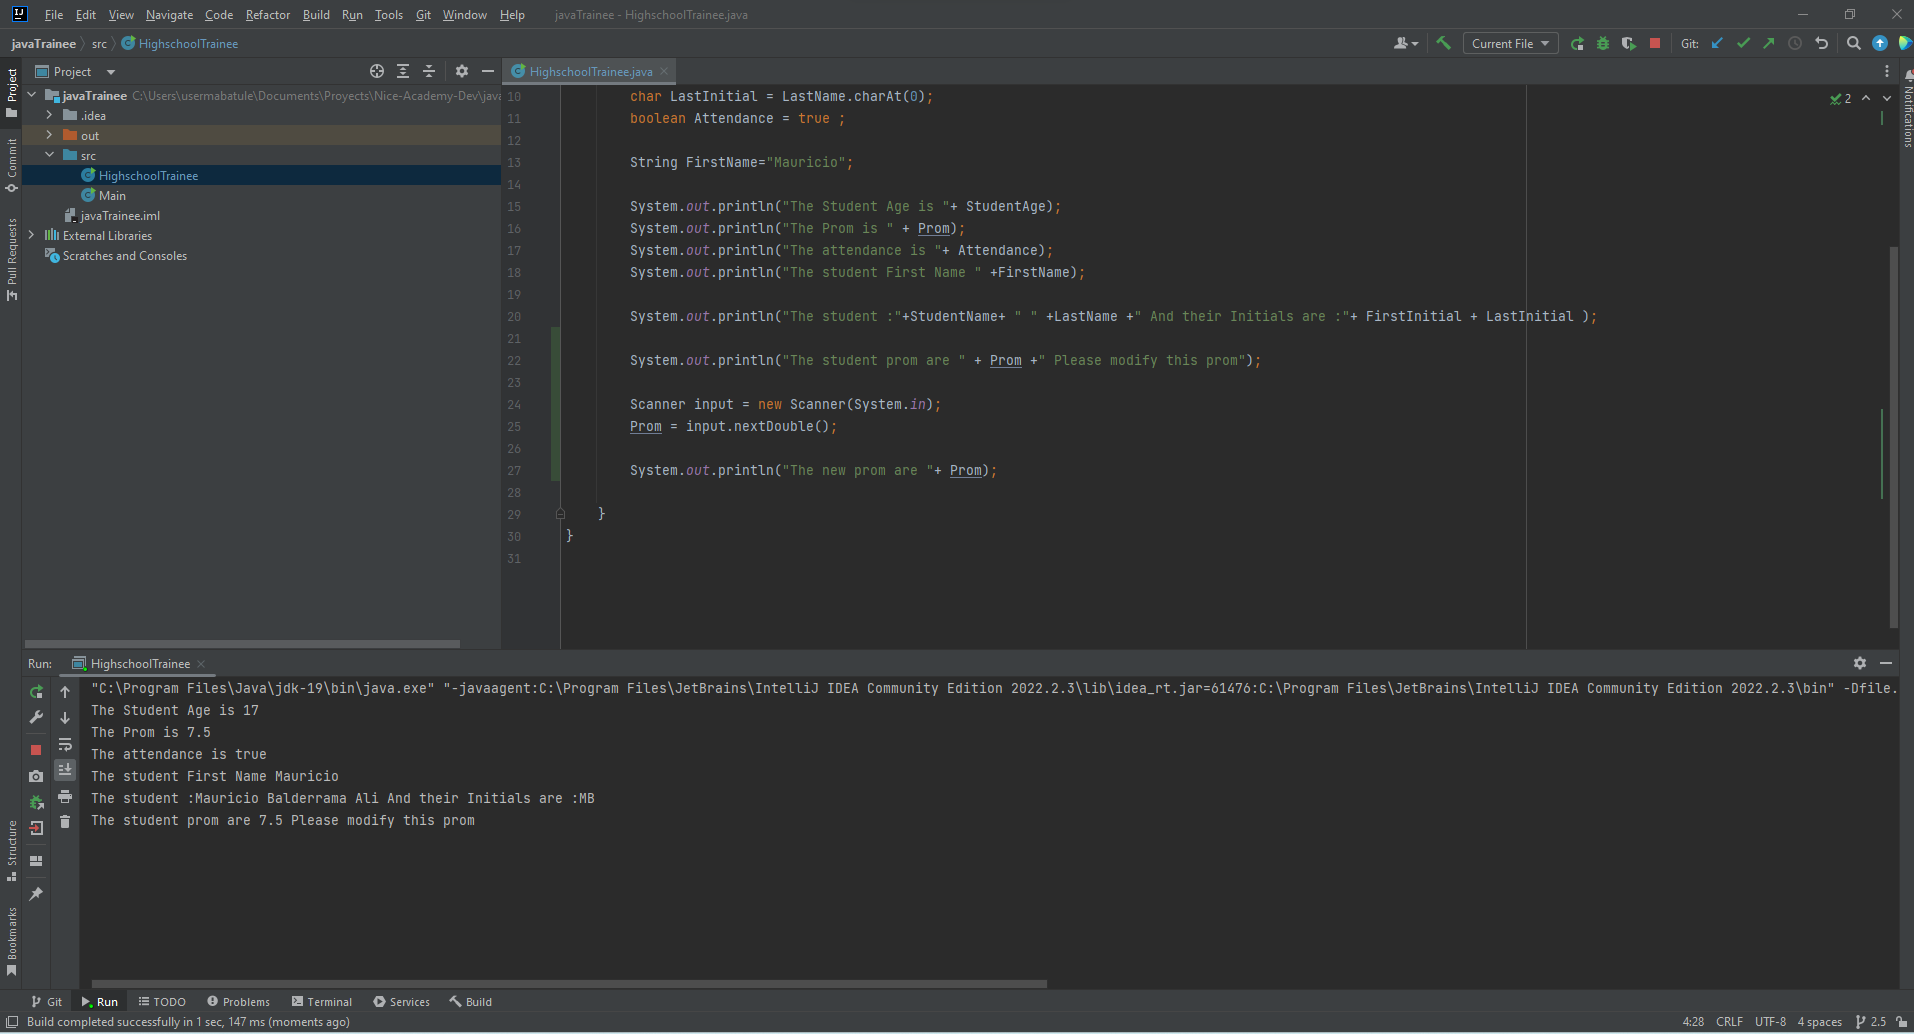
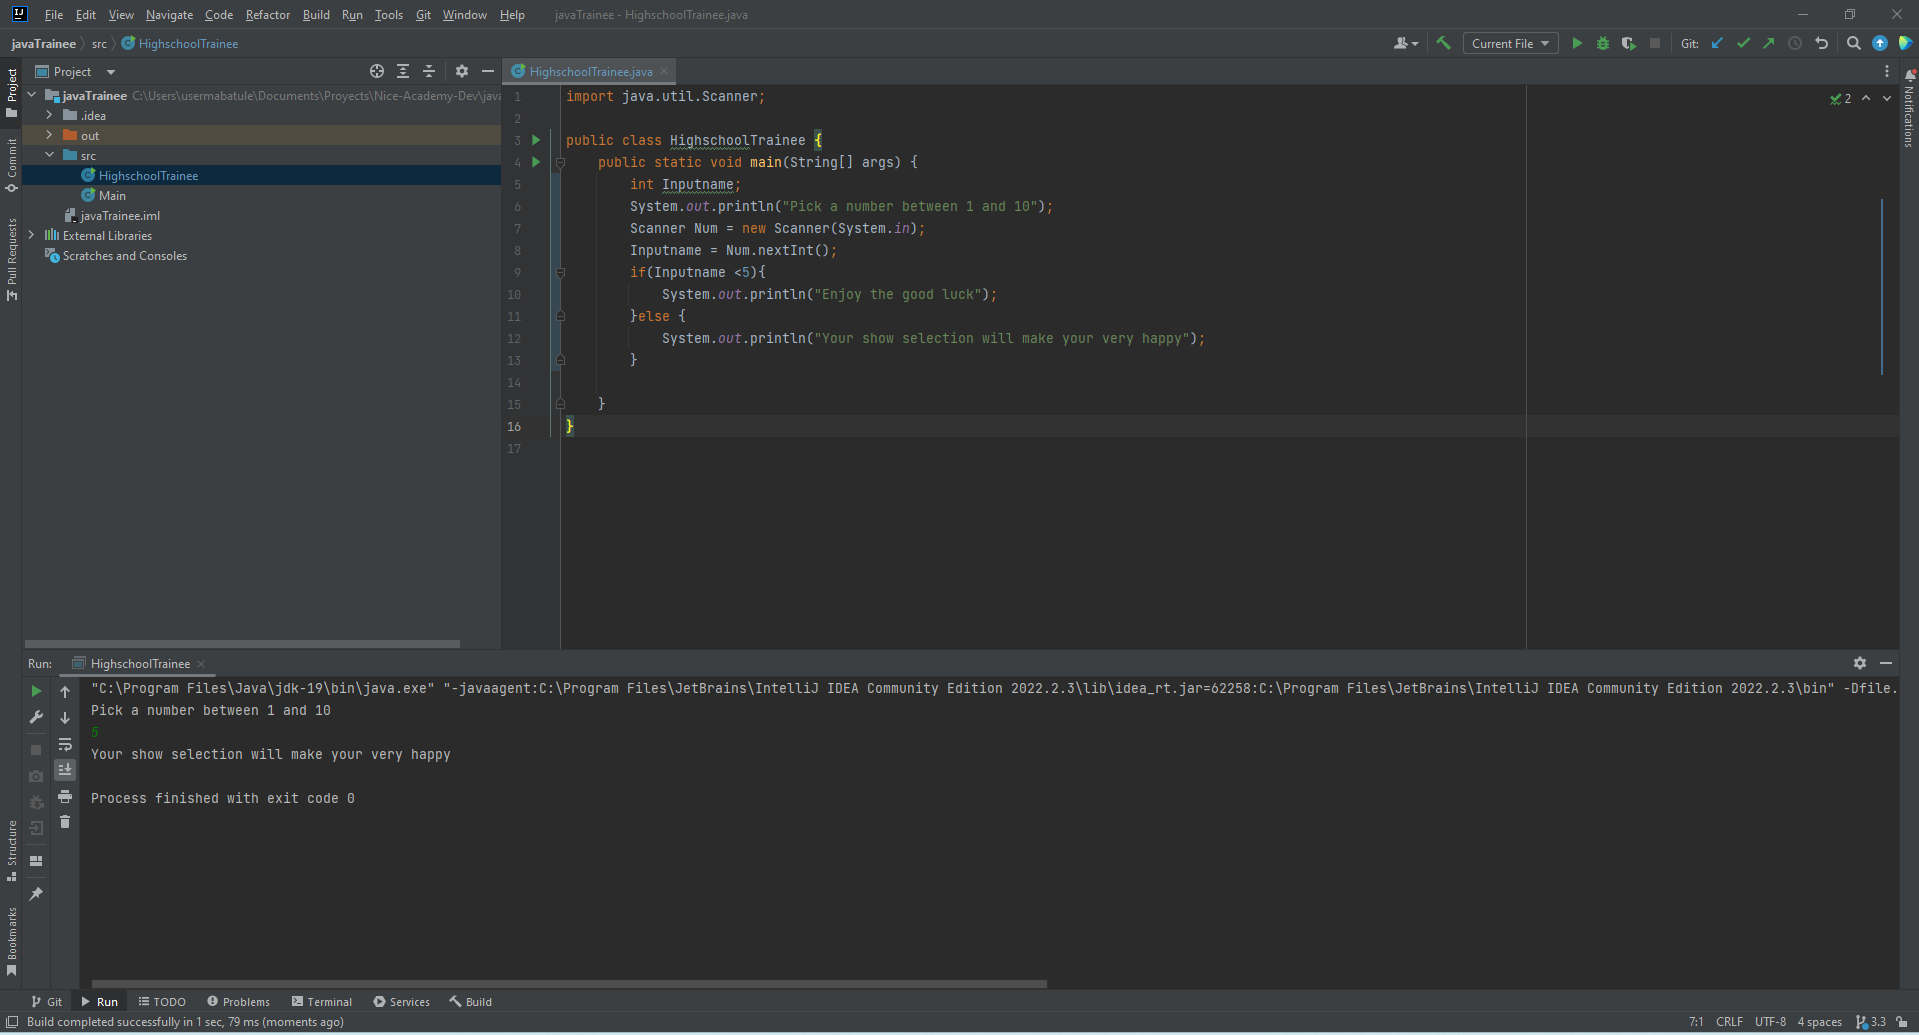
complete exercise 3.3

diff --git a/javaTrainee/src/HighschoolTrainee.java b/javaTrainee/src/HighschoolTrainee.java
@@ -2,29 +2,15 @@ import java.util.Scanner;
 
 public class HighschoolTrainee {
     public static void main(String[] args) {
-        int StudentAge = 17;
-        double Prom =7.5;
-        String StudentName= "Mauricio";
-        String LastName="Balderrama Ali";
-        char FirstInitial = StudentName.charAt(0);
-        char LastInitial = LastName.charAt(0);
-        boolean Attendance = true ;
-
-        String FirstName="Mauricio";
-
-        System.out.println("The Student Age is "+ StudentAge);
-        System.out.println("The Prom is " + Prom);
-        System.out.println("The attendance is "+ Attendance);
-        System.out.println("The student First Name " +FirstName);
-
-        System.out.println("The student :"+StudentName+ " " +LastName +" And their Initials are :"+ FirstInitial + LastInitial );
-
-        System.out.println("The student prom are " + Prom +" Please modify this prom");
-
-        Scanner input = new Scanner(System.in);
-        Prom = input.nextDouble();
-
-        System.out.println("The new prom are "+ Prom);
+        int Inputname;
+        System.out.println("Pick a number between 1 and 10");
+        Scanner Num = new Scanner(System.in);
+        Inputname = Num.nextInt();
+        if(Inputname <5){
+            System.out.println("Enjoy the good luck");
+        }else {
+            System.out.println("Your show selection will make your very happy");
+        }
 
     }
 }
